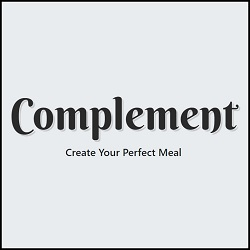
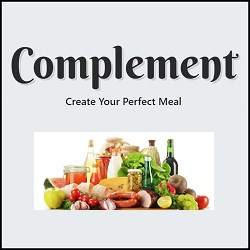
updated carousel photos and info

Changed region(s): [[0.028, 0.364, 0.98, 0.868], [0.028, 0.168, 0.98, 0.364]]

diff --git a/index.html b/index.html
@@ -73,97 +73,105 @@
 									<li data-target="#project-carousel" data-slide-to="4"></li>
 								</ol>
 								<div class="carousel-inner" id="slides">
-									<div class="carousel-item active" data-interval="7000">
+									<div class="carousel-item active" data-interval="10000">
 										<img src="./assets/images/complement.jpg" class="d-block" alt="Complement">
+										<p id="complement"><span id="title">Complement</span><br>A Food and Beer Pairing App</p>
+										<div id="codeBlock"><a href="https://bradleyjd19.github.io/Complement/" target="_blank">Demo</a><br><a href="https://github.com/bradleyjd19/Complement"target="_blank">Code</a></div>
 									</div>
-									<div class="carousel-item" data-interval="7000">
+									<div class="carousel-item" data-interval="10000">
 										<img src="./assets/images/logo.png" class="d-block" alt="JB Portfolio">
+										<p id="portfolio"><span id="title">JB Web Development</span><br>My Portfolio</p>
+										<div id="codeBlock"><a href="https://bradleyjd19.github.io/myPortfolio/" target="_blank">Demo</a><br><a href="https://github.com/bradleyjd19/myPortfolio"target="_blank">Code</a></div>
 									</div>
-									<div class="carousel-item" data-interval="7000">
+									<div class="carousel-item" data-interval="10000">
 										<img src="./assets/images/giftastic.jpg" class="d-block" alt="NCAA Giftastic">
+										<p id="giftastic"><span id="title">NCAA Giftastic</span><br>Gifs and fun for college basketball fans</p>
+										<div id="codeBlock"><a href="https://bradleyjd19.github.io/GifTastic/" target="_blank">Demo</a><br><a href="https://github.com/bradleyjd19/GifTastic"target="_blank">Code</a></div>
 									</div>
-									<div class="carousel-item" data-interval="7000">
+									<div class="carousel-item" data-interval="10000">
 										<img src="./assets/images/trivia.jpg" class="d-block" alt="NCAA Trivia">
+										<p id="trivia"><span id="title">March Madness Trivia</span><br>A fun quiz for NCAA tournament fans</p>
+										<div id="codeBlock"><a href="https://bradleyjd19.github.io/TriviaGame/" target="_blank">Demo</a><br><a href="https://github.com/bradleyjd19/TriviaGame"target="_blank">Code</a></div>
 									</div>
-									<div class="carousel-item" data-interval="7000">
+									<div class="carousel-item" data-interval="10000">
 										<img src="./assets/images/crystal.jpg" class="d-block" alt="Crystal Caverns">
+										<p id="crystals"><span id="title">Crystal Caverns</span><br>A Number Guessing Game</p>
+										<div id="codeBlock"><a href="https://bradleyjd19.github.io/Unit-4-Game/" target="_blank">Demo</a><br><a href="https://github.com/bradleyjd19/Unit-4-Game"target="_blank">Code</a></div>
 									</div>
 								</div>
 								<a class="carousel-control-prev" href="#project-carousel" role="button" data-slide="prev">
-									<span class="carousel-control-prev-icon" aria-hidden="true"></span>
+									<span class="fa fa-angle-left" aria-hidden="true"></span>
 									<span class="sr-only">Previous</span>
 								</a>
 								<a class="carousel-control-next" href="#project-carousel" role="button" data-slide="next">
-									<span class="carousel-control-next-icon" aria-hidden="true"></span>
+									<span class="fa fa-angle-right" aria-hidden="true"></span>
 									<span class="sr-only">Next</span>
 								</a>
 							</div>
-							Projects.
+						</div>
+						<div class="row">
+							<div class="col-md-12">
+								<div class="collapse" id="contactPage">
+									Contact.
+								</div>
+							</div>
 						</div>
 					</div>
 				</div>
-				<div class="row">
-					<div class="col-md-12">
-						<div class="collapse" id="contactPage">
-							Contact.
-						</div>
+			</div>
+
+			<div class="container" id="container-content">
+				<div class="row" id="row-tagline">
+					<div class="col-md-2 offset-md-3">
+						<h3 id="tagline1">Analyze.</h3>
+					</div>
+					<div class="col-md-2">
+						<h3 id="tagline2">Adapt.</h3>
+					</div>
+					<div class="col-md-2">
+						<h3 id="tagline3">Resolve.</h3>
+					</div>
+				</div>
+				<div class="row" id="row-repeat">
+					<div class="col-md-2 offset-md-5">
+						<h3 id="tagline4">Repeat.</h3>
+					</div>
+				</div>
+				<div class="row" id="row-intro">
+					<div class="col-md-8 offset-md-2">
+						<h1 id="intro">
+							<div id="preName">My name is </div>
+							<div id="name">Joshua Bradley</div>
+							<div id="postName"> I'm a Web Developer and a Problem-Solver.</div>
+						</h1>
 					</div>
 				</div>
 			</div>
-		</div>
-	</div>
 
-	<div class="container" id="container-content">
-		<div class="row" id="row-tagline">
-			<div class="col-md-2 offset-md-3">
-				<h3 id="tagline1">Analyze.</h3>
-			</div>
-			<div class="col-md-2">
-				<h3 id="tagline2">Adapt.</h3>
-			</div>
-			<div class="col-md-2">
-				<h3 id="tagline3">Resolve.</h3>
-			</div>
-		</div>
-		<div class="row" id="row-repeat">
-			<div class="col-md-2 offset-md-5">
-				<h3 id="tagline4">Repeat.</h3>
-			</div>
-		</div>
-		<div class="row" id="row-intro">
-			<div class="col-md-8 offset-md-2">
-				<h1 id="intro">
-					<div id="preName">My name is </div>
-					<div id="name">Joshua Bradley</div>
-					<div id="postName"> I'm a Web Developer and a Problem-Solver.</div>
-				</h1>
-			</div>
-		</div>
-	</div>
-
-	<footer class="page-footer font-small">
-		<div class="container" id="container-footer">
-			<div class="row" id="row-footer">
-				<div class="col-md-4 offset-md-4 text-center my-auto" id="footer-links">
-					<a href="https://github.com/bradleyjd19" target="_blank">
-						<i class="fab fa-github fa-sm white-text mr-3 ml-3 fa-2x"></i>
-					</a>
-					<a href="https://www.linkedin.com/in/bradleyjd19/" target="_blank">
-						<i class="fab fa-linkedin-in fa-sm white-text mr-3 ml-3 fa-2x"></i>
-					</a>
-					<a href="https://drive.google.com/file/d/1HvlhSRgwjSLicQxKjG4KOjXLIz4MmLD5/view?usp=sharing" target="_blank">
-						<i class="far fa-file fa-sm white-text mr-3 ml-3 fa-2x"></i>
-					</a>
+			<footer class="page-footer font-small">
+				<div class="container" id="container-footer">
+					<div class="row" id="row-footer">
+						<div class="col-md-4 offset-md-4 text-center my-auto" id="footer-links">
+							<a href="https://github.com/bradleyjd19" target="_blank">
+								<i class="fab fa-github fa-sm white-text mr-3 ml-3 fa-2x"></i>
+							</a>
+							<a href="https://www.linkedin.com/in/bradleyjd19/" target="_blank">
+								<i class="fab fa-linkedin-in fa-sm white-text mr-3 ml-3 fa-2x"></i>
+							</a>
+							<a href="https://drive.google.com/file/d/1HvlhSRgwjSLicQxKjG4KOjXLIz4MmLD5/view?usp=sharing"
+								target="_blank">
+								<i class="far fa-file fa-sm white-text mr-3 ml-3 fa-2x"></i>
+							</a>
+						</div>
+						<div class="col-md-4 text-center">
+							<span id="footer-email">bradleyjd19@gmail.com</span>
+							<span id="footer-phone">(540) 560-3558</span>
+						</div>
+					</div>
 				</div>
-				<div class="col-md-4 text-center">
-					<span id="footer-email">bradleyjd19@gmail.com</span>
-					<span id="footer-phone">(540) 560-3558</span>
-				</div>
-			</div>
-		</div>
-	</footer>
+			</footer>
 
-	<script src="./assets/javascript/portfolio.js"></script>
+			<script src="./assets/javascript/portfolio.js"></script>
 
 </body>
 

diff --git a/assets/css/style.css b/assets/css/style.css
@@ -93,6 +93,37 @@ button:focus {
   margin: 0 auto;
 }
 
+.fa-angle-left,
+.fa-angle-right {
+  color: red;
+}
+
+.carousel-indicators li {
+  width: 10px;
+  height: 10px;
+  border-radius: 100%;
+  background-color: red;
+  margin: 0 10px;
+}
+
+#complement,
+#portfolio,
+#giftastic,
+#trivia,
+#crystals,
+#codeBlock {
+  text-align: center;
+  margin-top: 10px;
+}
+
+#title {
+  font-size: 24px;
+}
+
+#codeBlock {
+  font-size: 20px;
+}
+
 #name {
   color: red;
   font-size: 60px;
